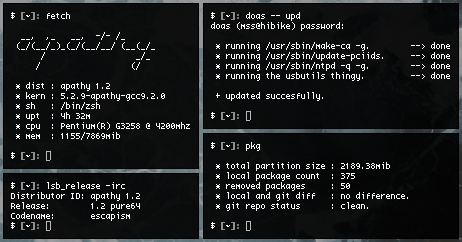
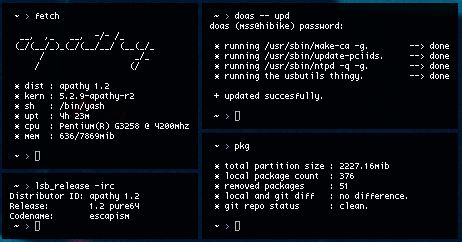
rmv: zsh-5.7.1, add: yashrc and profile.

diff --git a/README.md b/README.md
@@ -30,7 +30,7 @@ video/audio:
  * alsa 1.1.8
 
 shells:
- * bash 5.0, zsh 5.7.1, yash 2.48
+ * bash 5.0, yash 2.48
 ```
 
 #### patches used in the apathy kernel:
@@ -53,8 +53,8 @@ apathy in its current state is all free software including the kernel and the fi
 ```
 $ [master][apathy]: pkg
 
- * total partition size	: 2205.23mib
- * local package count	: 376
+ * total partition size	: 2214.69mib
+ * local package count	: 375
  * removed packages	: 51
 
 ```

diff --git a/pkg-management/packages.md b/pkg-management/packages.md
@@ -393,7 +393,7 @@
 [d]	** liblua5.1.5	--> binary from arch
 [d]	** libidn-1.35
 
-[d]	* zsh-5.7.1
+[r]	* zsh-5.7.1
 [d]	* expect-5.45.4 
 [d]	* lz4
 
